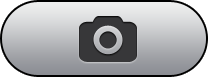
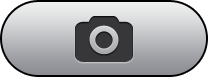
SHOT-72
* Corrected the camera capture button art so that the camera is centered
* Now checks if a valid camera device is available before initializing the camera.

Changed region(s): [[0.3462, 0.2025, 0.6058, 0.8101], [0.5481, 0.2025, 0.6635, 0.8101]]

diff --git a/shotvibe/Controllers/CaptureViewfinderController.m b/shotvibe/Controllers/CaptureViewfinderController.m
@@ -57,6 +57,7 @@ static void *AVCamFocusModeObserverContext = &AVCamFocusModeObserverContext;
     
     BOOL memwarningDisplayed;
     BOOL topBarHidden;
+    BOOL isCapable;
 }
 
 #pragma mark - Properties
@@ -108,75 +109,86 @@ static void *AVCamFocusModeObserverContext = &AVCamFocusModeObserverContext;
     
     flashMode = kFlashModeAuto;
     
-    AVCaptureDevice *device = [AVCaptureDevice defaultDeviceWithMediaType:AVMediaTypeVideo];
-
-    if ([device hasFlash]) {
-        [device lockForConfiguration:nil];
-        [device setFlashMode:AVCaptureFlashModeAuto];
-        [device unlockForConfiguration];
+    if ([UIImagePickerController isSourceTypeAvailable:UIImagePickerControllerSourceTypeCamera]) {
+        // if so, does that camera support video?
+        NSArray *mediaTypes = [UIImagePickerController availableMediaTypesForSourceType:UIImagePickerControllerSourceTypeCamera];
+        isCapable = [mediaTypes containsObject:(NSString *)kUTTypeMovie];
     }
-    else {
-        self.flashButtonAuto.enabled = NO;
-        self.flashButtonAuto.hidden = YES;
+
+    if (isCapable) {
+        AVCaptureDevice *device = [AVCaptureDevice defaultDeviceWithMediaType:AVMediaTypeVideo];
+        
+        
+        if ([device hasFlash]) {
+            [device lockForConfiguration:nil];
+            [device setFlashMode:AVCaptureFlashModeAuto];
+            [device unlockForConfiguration];
+        }
+        else {
+            self.flashButtonAuto.enabled = NO;
+            self.flashButtonAuto.hidden = YES;
+        }
+        
+        if ([self captureManager] == nil) {
+            AVCamCaptureManager *manager = [[AVCamCaptureManager alloc] init];
+            [self setCaptureManager:manager];
+            
+            [[self captureManager] setDelegate:self];
+            
+            if ([[self captureManager] setupSession]) {
+                // Create video preview layer and add it to the UI
+                AVCaptureVideoPreviewLayer *newCaptureVideoPreviewLayer = [[AVCaptureVideoPreviewLayer alloc] initWithSession:[[self captureManager] session]];
+                
+                self.videoPreviewView.frame = self.view.bounds;
+                
+                UIView *view = [self videoPreviewView];
+                CALayer *viewLayer = [view layer];
+                [viewLayer setMasksToBounds:YES];
+                
+                CGRect bounds = [view bounds];
+                [newCaptureVideoPreviewLayer setFrame:bounds];
+                
+                if ([newCaptureVideoPreviewLayer connection].supportsVideoOrientation) {
+                    [[newCaptureVideoPreviewLayer connection] setVideoOrientation:AVCaptureVideoOrientationPortrait];
+                }
+                
+                [newCaptureVideoPreviewLayer setVideoGravity:AVLayerVideoGravityResizeAspectFill];
+                
+                [viewLayer insertSublayer:newCaptureVideoPreviewLayer below:[[viewLayer sublayers] objectAtIndex:0]];
+                
+                [self setCaptureVideoPreviewLayer:newCaptureVideoPreviewLayer];
+                
+                // Start the session. This is done asychronously since -startRunning doesn't return until the session is running.
+                dispatch_async(dispatch_get_global_queue(DISPATCH_QUEUE_PRIORITY_DEFAULT, 0), ^{
+                    [[[self captureManager] session] startRunning];
+                });
+                
+                [self updateButtonStates];
+                
+                // Add a single tap gesture to focus on the point tapped, then lock focus
+                UITapGestureRecognizer *singleTap = [[UITapGestureRecognizer alloc] initWithTarget:self action:@selector(tapToAutoFocus:)];
+                [singleTap setDelegate:self];
+                [singleTap setNumberOfTapsRequired:1];
+                [view addGestureRecognizer:singleTap];
+                
+                // Add a double tap gesture to reset the focus mode to continuous auto focus
+                UITapGestureRecognizer *doubleTap = [[UITapGestureRecognizer alloc] initWithTarget:self action:@selector(tapToHideUI:)];
+                [doubleTap setDelegate:self];
+                [doubleTap setNumberOfTapsRequired:2];
+                [singleTap requireGestureRecognizerToFail:doubleTap];
+                [view addGestureRecognizer:doubleTap];
+                
+                UITapGestureRecognizer *tripleTap = [[UITapGestureRecognizer alloc] initWithTarget:self action:@selector(tapToContinouslyAutoFocus:)];
+                [tripleTap setDelegate:self];
+                [tripleTap setNumberOfTapsRequired:3];
+                [singleTap requireGestureRecognizerToFail:tripleTap];
+                [doubleTap requireGestureRecognizerToFail:tripleTap];
+                [view addGestureRecognizer:tripleTap];
+            }		
+        }
     }
     
-	if ([self captureManager] == nil) {
-		AVCamCaptureManager *manager = [[AVCamCaptureManager alloc] init];
-		[self setCaptureManager:manager];
-		
-		[[self captureManager] setDelegate:self];
-        
-		if ([[self captureManager] setupSession]) {
-            // Create video preview layer and add it to the UI
-			AVCaptureVideoPreviewLayer *newCaptureVideoPreviewLayer = [[AVCaptureVideoPreviewLayer alloc] initWithSession:[[self captureManager] session]];
-            
-            self.videoPreviewView.frame = self.view.bounds;
-            
-			UIView *view = [self videoPreviewView];
-			CALayer *viewLayer = [view layer];
-			[viewLayer setMasksToBounds:YES];
-			
-			CGRect bounds = [view bounds];
-			[newCaptureVideoPreviewLayer setFrame:bounds];
-			
-			if ([newCaptureVideoPreviewLayer connection].supportsVideoOrientation) {
-				[[newCaptureVideoPreviewLayer connection] setVideoOrientation:AVCaptureVideoOrientationPortrait];
-			}
-			
-			[newCaptureVideoPreviewLayer setVideoGravity:AVLayerVideoGravityResizeAspectFill];
-			
-			[viewLayer insertSublayer:newCaptureVideoPreviewLayer below:[[viewLayer sublayers] objectAtIndex:0]];
-			
-			[self setCaptureVideoPreviewLayer:newCaptureVideoPreviewLayer];
-			
-            // Start the session. This is done asychronously since -startRunning doesn't return until the session is running.
-			dispatch_async(dispatch_get_global_queue(DISPATCH_QUEUE_PRIORITY_DEFAULT, 0), ^{
-				[[[self captureManager] session] startRunning];
-			});
-						
-            [self updateButtonStates];
-            
-            // Add a single tap gesture to focus on the point tapped, then lock focus
-			UITapGestureRecognizer *singleTap = [[UITapGestureRecognizer alloc] initWithTarget:self action:@selector(tapToAutoFocus:)];
-			[singleTap setDelegate:self];
-			[singleTap setNumberOfTapsRequired:1];
-			[view addGestureRecognizer:singleTap];
-			
-            // Add a double tap gesture to reset the focus mode to continuous auto focus
-			UITapGestureRecognizer *doubleTap = [[UITapGestureRecognizer alloc] initWithTarget:self action:@selector(tapToHideUI:)];
-			[doubleTap setDelegate:self];
-			[doubleTap setNumberOfTapsRequired:2];
-			[singleTap requireGestureRecognizerToFail:doubleTap];
-			[view addGestureRecognizer:doubleTap];
-            
-            UITapGestureRecognizer *tripleTap = [[UITapGestureRecognizer alloc] initWithTarget:self action:@selector(tapToContinouslyAutoFocus:)];
-            [tripleTap setDelegate:self];
-            [tripleTap setNumberOfTapsRequired:3];
-            [singleTap requireGestureRecognizerToFail:tripleTap];
-            [doubleTap requireGestureRecognizerToFail:tripleTap];
-            [view addGestureRecognizer:tripleTap];
-		}		
-	}
+    
     
     [super viewDidLoad];
 }
@@ -188,10 +200,12 @@ static void *AVCamFocusModeObserverContext = &AVCamFocusModeObserverContext;
     
     [self.navigationController setNavigationBarHidden:YES];
     
-    if ([self captureManager] != nil) {
-        dispatch_async(dispatch_get_global_queue(DISPATCH_QUEUE_PRIORITY_DEFAULT, 0), ^{
-            [[[self captureManager] session] startRunning];
-        });
+    if (isCapable) {
+        if ([self captureManager] != nil) {
+            dispatch_async(dispatch_get_global_queue(DISPATCH_QUEUE_PRIORITY_DEFAULT, 0), ^{
+                [[[self captureManager] session] startRunning];
+            });
+        }
     }
 }
 
@@ -205,6 +219,12 @@ static void *AVCamFocusModeObserverContext = &AVCamFocusModeObserverContext;
     if (isFinishedSelectingPhotoEarly) {
         [self.navigationController dismissViewControllerAnimated:YES completion:nil];
     }
+    
+    if (!isCapable) {
+        UIAlertView *alert = [[UIAlertView alloc] initWithTitle:NSLocalizedString(@"No Camera", @"") message:NSLocalizedString(@"We cannot find a usable camera on this device.", @"") delegate:nil cancelButtonTitle:NSLocalizedString(@"OK", @"") otherButtonTitles: nil];
+        [alert show];
+        [self.navigationController dismissViewControllerAnimated:YES completion:nil];
+    }
 }
 
 
@@ -212,7 +232,9 @@ static void *AVCamFocusModeObserverContext = &AVCamFocusModeObserverContext;
 {
     [super viewDidDisappear:animated];
     
-    [[[self captureManager] session] stopRunning];
+    if (isCapable) {
+        [[[self captureManager] session] stopRunning];
+    }
 }
 
 
